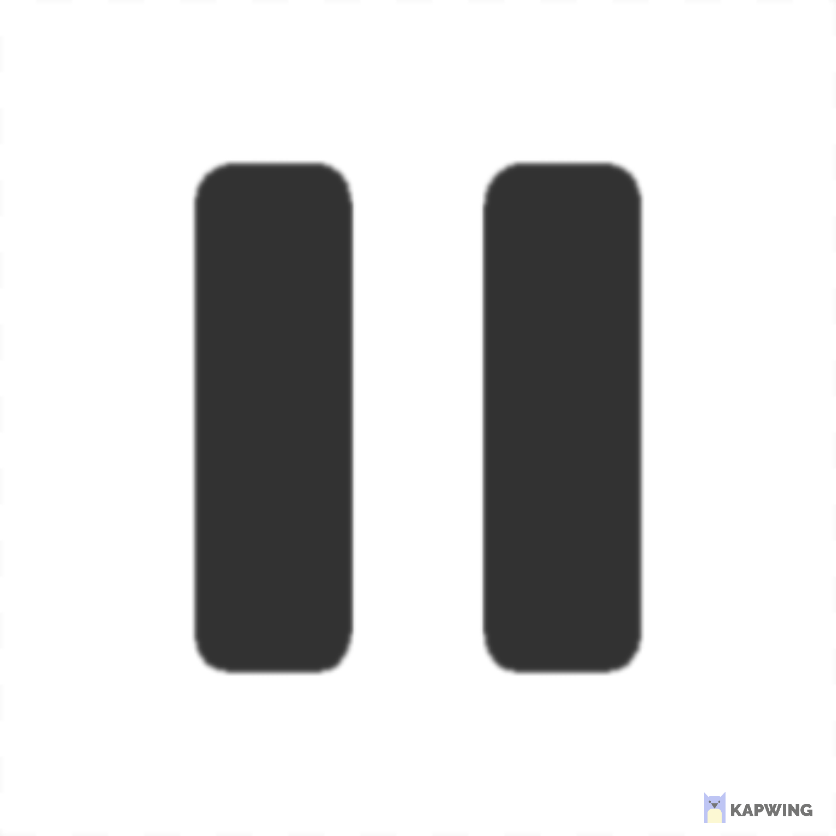
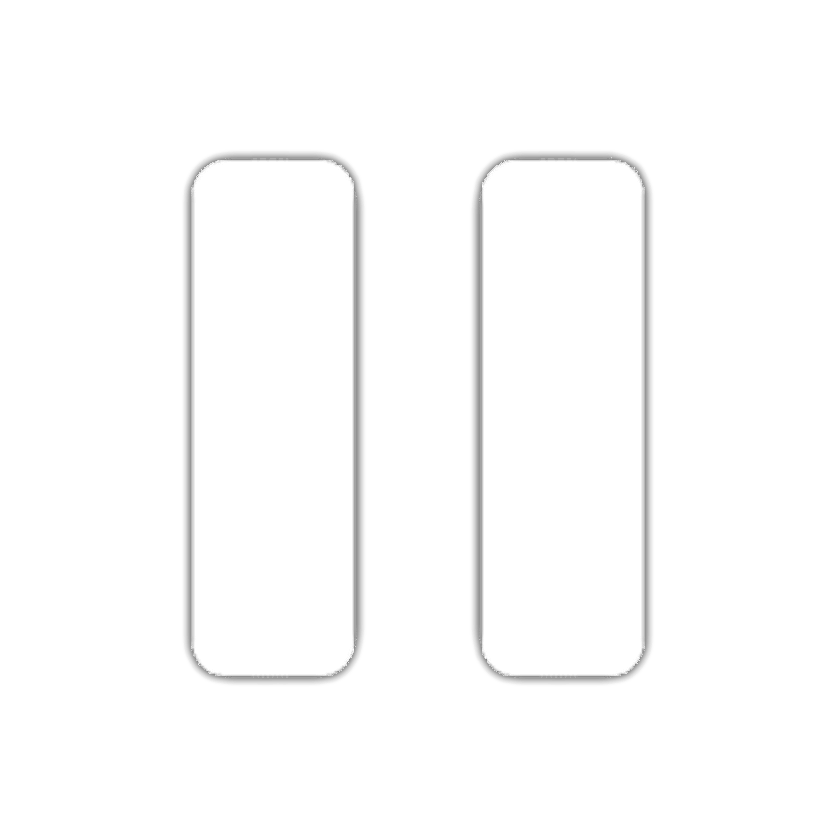
It finally looks kinda good <3

Changed region(s): [[0.5598, 0.1555, 0.7775, 0.8397], [0.2177, 0.1555, 0.4354, 0.8397], [0.8397, 0.933, 0.9641, 0.9952]]

diff --git a/src/com/langesokker/views/FullMediaView.java b/src/com/langesokker/views/FullMediaView.java
@@ -2,9 +2,10 @@ package com.langesokker.views;
 
 import com.langesokker.components.JText;
 import com.langesokker.components.PlayButton;
-import com.langesokker.components.RatingContainer;
 import com.langesokker.components.containers.EpisodeSelectorContainer;
+import com.langesokker.components.containers.JMultiLine;
 import com.langesokker.components.containers.NavBarContainer;
+import com.langesokker.components.containers.RatingContainer;
 import com.langesokker.controllers.GUIController;
 import com.langesokker.controllers.MediaController;
 import com.langesokker.controllers.UserController;
@@ -20,7 +21,6 @@ import javax.swing.border.CompoundBorder;
 import javax.swing.border.EmptyBorder;
 import javax.swing.border.LineBorder;
 import java.awt.*;
-import java.awt.image.BufferedImage;
 
 public class FullMediaView extends BaseView {
 
@@ -42,40 +42,27 @@ public class FullMediaView extends BaseView {
     public Container getContainer() {
         JPanel panel = new JPanel();
         panel.setLayout(new BorderLayout());
+
         JPanel mainPanel = new JPanel();
-        mainPanel.setLayout(new BoxLayout(mainPanel, BoxLayout.LINE_AXIS));
+        mainPanel.setLayout(new GridBagLayout());
+        GridBagConstraints c = new GridBagConstraints();
+        c.fill = GridBagConstraints.BOTH;
+        c.weightx = 1;
+        c.weighty = 1;
         mainPanel.setBackground(Colors.SECONDARY_DARK.getColor());
 
-        JPanel imagePanel = new JPanel();
-        imagePanel.setOpaque(false);
+        c.gridx = 0;
+        c.gridy = 0;
+        JPanel imagePanel = createImagePanel();
+        mainPanel.add(imagePanel, c);
 
-        imagePanel.setLayout(new BoxLayout(imagePanel, BoxLayout.Y_AXIS));
-        imagePanel.setAlignmentY(JPanel.TOP_ALIGNMENT);
-        imagePanel.setSize(200, 400);
+        c.gridx = 1;
+        c.gridy = 0;
 
-        JLabel image = new JLabel(new ImageIcon(mediaController.getMediaImage(media)));
-        imagePanel.add(image);
-
-        /* Add a play button */
-        JButton playButton = new PlayButton();
-        imagePanel.add(playButton);
-
-        /* Add season/episode select if possible */
-        if (media instanceof Seasonable) {
-            Seasonable seasonable = (Seasonable) media;
-            imagePanel.add(new EpisodeSelectorContainer(seasonable));
-        }
-
-        JPanel infoPanel = new JPanel();
-        infoPanel.setLayout(new BoxLayout(infoPanel, BoxLayout.PAGE_AXIS));
-        infoPanel.setOpaque(false);
+        JPanel infoPanel = createInfoPanel();
         infoPanel.setBorder(BorderFactory.createLineBorder(Color.black));
 
-        JPanel innerPanel = getInnerInfoPanel();
-        infoPanel.add(innerPanel);
-
-        mainPanel.add(imagePanel, Component.TOP_ALIGNMENT);
-        mainPanel.add(infoPanel);
+        mainPanel.add(infoPanel, c);
         panel.add(new NavBarContainer(new Container()), BorderLayout.NORTH);
         panel.add(mainPanel, BorderLayout.CENTER);
         return panel;
@@ -92,39 +79,94 @@ public class FullMediaView extends BaseView {
         return button;
     }
 
-    private JPanel getInnerInfoPanel(){
-        JPanel innerPanel = new JPanel();
-        innerPanel.setLayout(new BoxLayout(innerPanel, BoxLayout.Y_AXIS));
-        innerPanel.setOpaque(false);
+    private JPanel createImagePanel() {
+        JPanel imagePanel = new JPanel();
+        imagePanel.setOpaque(false);
 
-        innerPanel.setSize(new Dimension(100, 200));
+        imagePanel.setLayout(new GridBagLayout());
+        GridBagConstraints c = new GridBagConstraints();
+        c.fill = GridBagConstraints.BOTH;
+        c.weightx = 1;
+        c.weighty = 1;
+        c.gridx = 0;
+        c.gridy = 0;
+        c.gridheight = 1;
+        c.gridwidth = 1;
+        JLabel image = new JLabel(new ImageIcon(ImageUtils.resize(mediaController.getMediaImage(media), 200, 298)));
+        imagePanel.add(image, c);
 
+        c.gridy = 1;
+        c.insets = new Insets(20, 20, 20, 20);
+        /* Add a play button */
+        JButton playButton = new PlayButton();
+        imagePanel.add(playButton, c);
+
+        c.gridy = 2;
+        /* Add season/episode select if possible */
+        if (media instanceof Seasonable) {
+            Seasonable seasonable = (Seasonable) media;
+            imagePanel.add(new EpisodeSelectorContainer(seasonable), c);
+        }
+        return imagePanel;
+    }
+
+    private JPanel createInfoPanel() {
+        JPanel infoPanel = new JPanel();
+        infoPanel.setLayout(new GridBagLayout());
+        infoPanel.setOpaque(false);
+
+        GridBagConstraints c = new GridBagConstraints();
+        c.fill = GridBagConstraints.BOTH;
+        c.weightx = 1;
+        c.weighty = 1;
+        c.gridx = 0;
+        c.gridy = 0;
+        c.gridheight = 1;
+        c.gridwidth = GridBagConstraints.REMAINDER;
         JText title = new JText(
-                String.format("<html><div style=\"width:%dpx; text-align:left; text-transform: uppercase;\">%s</div></html>", 500, media.getName()),
+                String.format("<html><div style=\"width:%dpx; text-align:left; text-transform: uppercase;\">%s</div></html>", 1000, media.getName()),
                 72,
                 true,
                 Color.WHITE);
 
         title.setBorder(BorderFactory.createLineBorder(Color.black));
-        innerPanel.add(title);
+        infoPanel.add(title, c);
 
-        /*Container ratingContainer = new RatingContainer(media, FlowLayout.LEFT, true);
-        innerPanel.add(ratingContainer);*/
+        c.gridy = 1;
+        c.gridx = 1;
+        c.gridwidth = 1;
+        Box ratingContainer = new RatingContainer(media, false);
+        infoPanel.add(ratingContainer, c);
 
-        innerPanel.add(new JText("Release date: " + media.getReleaseDate(), 20, true, Colors.WHITE.getColor()));
-        innerPanel.add(new JText(media.genresToString(), 20, Colors.WHITE.getColor()));
-        innerPanel.setAlignmentX(SwingConstants.LEFT);
+        c.gridy = 1;
+        c.gridx = 2;
+        c.gridwidth = 1;
+        infoPanel.add(new JText("Release date: " + media.getReleaseDate(), 20, false, Colors.WHITE.getColor()), c);
+        c.gridy = 1;
+        c.gridx = 3;
+        c.gridwidth = GridBagConstraints.REMAINDER;
+        infoPanel.add(new JText(media.genresToString(), 20, Colors.WHITE.getColor()), c);
+        c.gridwidth = 1;
+        infoPanel.setAlignmentX(SwingConstants.LEFT);
+
+        c.gridx = 0;
+        c.gridy = 2;
+        c.gridwidth = GridBagConstraints.REMAINDER;
+        JMultiLine description = new JMultiLine("Lorem ipsum dolor sit amet, consectetur adipiscing elit. Cras elementum nisl venenatis diam tincidunt, in fermentum ligula lobortis. Praesent malesuada enim in velit eleifend, eu eleifend dui maximus. Sed vel suscipit est, sed lobortis enim. Nam lobortis tellus eget pellentesque consequat. Nunc massa risus, molestie sed nisl a, molestie dictum massa. Phasellus nibh nisl, tempor in arcu at, semper blandit nisl. Aenean egestas vitae nunc eu eleifend. Morbi ut odio mauris.");
+        infoPanel.add(description, c);
+        c.gridwidth = 1;
 
         Box buttonBox = Box.createHorizontalBox();
 
         JButton backButton = createSimpleButton("Back");
         backButton.addActionListener(e -> guiController.setView(guiController.getFrontPage().getContainer()));
         buttonBox.add(backButton);
-        buttonBox.add(Box.createRigidArea(new Dimension(30,0)));
-
         buttonBox.add(createAddToListButton());
-        innerPanel.add(buttonBox);
-        return innerPanel;
+        c.gridy = 3;
+        c.gridwidth = GridBagConstraints.REMAINDER;
+        infoPanel.add(buttonBox, c);
+        c.gridwidth = 1;
+        return infoPanel;
     }
 
 

diff --git a/src/com/langesokker/components/containers/RatingContainer.java b/src/com/langesokker/components/containers/RatingContainer.java
@@ -1,0 +1,35 @@
+package com.langesokker.components.containers;
+
+import com.langesokker.components.JText;
+import com.langesokker.media.Media;
+import com.langesokker.utils.Colors;
+import com.langesokker.utils.ImageUtils;
+
+import javax.swing.*;
+import javax.swing.border.EmptyBorder;
+import java.awt.*;
+import java.awt.image.BufferedImage;
+import java.util.concurrent.Flow;
+
+public class RatingContainer extends Box {
+
+    public RatingContainer(Media media) {
+        this(media, true);
+    }
+
+    public RatingContainer(Media media, boolean frontPage) {
+        super(BoxLayout.LINE_AXIS);
+       /* FlowLayout layout = new FlowLayout(alignment, 0, 20);
+        layout.setAlignOnBaseline(true);*/
+        this.setMaximumSize(new Dimension(this.getWidth(), this.getHeight()));
+        this.setOpaque(false);
+        JText ratingText = new JText(((!frontPage ? "Rating: " : "") + media.getRating()), 15, true, Colors.WHITE.getColor());
+        this.add(ratingText);
+
+        BufferedImage ratingIcon = ImageUtils.getImage("assets/star.png");
+        if(ratingIcon != null){
+            ratingIcon = ImageUtils.resize(ratingIcon, ratingText.getFontSize(), ratingText.getFontSize());
+            this.add(new JLabel(new ImageIcon(ratingIcon)));
+        }
+    }
+}

diff --git a/src/com/langesokker/components/containers/JMultiLine.java b/src/com/langesokker/components/containers/JMultiLine.java
@@ -1,0 +1,44 @@
+package com.langesokker.components.containers;
+
+import com.langesokker.components.JText;
+
+import javax.swing.*;
+import java.awt.*;
+
+public class JMultiLine extends JTextArea {
+
+    Color color;
+    String fontName = "Lucida Sans";
+    boolean isBold = false;
+    int fontSize = 12;
+
+    public JMultiLine(String text){
+        super(text);
+    }
+    public JMultiLine(String text, int fontSize){
+        this(text);
+        this.fontSize = fontSize;
+    }
+    public JMultiLine(String text, int fontSize, Color color){
+        this(text, fontSize);
+        this.color = color;
+    }
+    public JMultiLine(String text, int fontSize, Color color, boolean isBold){
+        this(text, fontSize, color);
+        this.isBold = isBold;
+    }
+
+    @Override
+    protected void paintComponent(Graphics g) {
+        super.setLineWrap(true);
+        super.setWrapStyleWord(true);
+        this.setMargin(new Insets(20, 10, 10, 10));
+        this.setOpaque(false);
+
+        if(color == null) super.setForeground(Color.WHITE);
+        else super.setForeground(color);
+        super.setFont(new Font(fontName, isBold ? Font.BOLD : Font.PLAIN, fontSize));
+        super.paintComponent(g);
+    }
+
+}

diff --git a/src/com/langesokker/components/PlayButton.java b/src/com/langesokker/components/PlayButton.java
@@ -3,6 +3,8 @@ package com.langesokker.components;
 import com.langesokker.utils.ImageUtils;
 
 import javax.swing.*;
+import javax.swing.border.EmptyBorder;
+import java.awt.*;
 import java.awt.image.BufferedImage;
 
 public class PlayButton extends JButton{
@@ -13,8 +15,14 @@ public class PlayButton extends JButton{
     boolean isPlaying = false;
 
     public PlayButton(){
-        this.playIcon = ImageUtils.resize(ImageUtils.getImage("assets/play_icon_transparent.png"), 70, 70);
-        this.pauseIcon = ImageUtils.resize(ImageUtils.getImage("assets/pauseicon.png"), 70, 70);
+        this.setBorder(new EmptyBorder(0,0,0,0));
+        this.setBorderPainted(false);
+        this.setContentAreaFilled(false);
+        this.setFocusPainted(false);
+        this.setOpaque(false);
+        this.setCursor(new Cursor(Cursor.HAND_CURSOR));
+        this.playIcon = ImageUtils.resize(ImageUtils.getImage("assets/play_icon_transparent.png"), 90, 90);
+        this.pauseIcon = ImageUtils.resize(ImageUtils.getImage("assets/pauseicon.png"), 90, 90);
 
         this.setVerticalAlignment(SwingConstants.CENTER);
 

diff --git a/src/com/langesokker/components/JText.java b/src/com/langesokker/components/JText.java
@@ -74,20 +74,8 @@ public class JText extends JLabel {
         this.color = color;
     }
 
-    public boolean isBold() {
-        return isBold;
-    }
-
     public int getFontSize() {
         return fontSize;
-    }
-
-    public void setFontSize(int fontSize) {
-        this.fontSize = fontSize;
-    }
-
-    public void setBold(boolean bold) {
-        isBold = bold;
     }
 
     /**
@@ -95,11 +83,9 @@ public class JText extends JLabel {
      */
     @Override
     protected void paintComponent(Graphics g) {
-        if(color != null) super.setForeground(Color.WHITE);
-        Font defaultFont = super.getFont();
-        super.setFont(new Font(fontName, isBold() ? Font.BOLD : Font.PLAIN, getFontSize()));
-        /*super.setBackground(Color.CYAN);
-        super.setOpaque(true);*/
+        if(color == null) super.setForeground(Color.WHITE);
+        else super.setForeground(color);
+        super.setFont(new Font(fontName, isBold ? Font.BOLD : Font.PLAIN, fontSize));
         super.paintComponent(g);
     }
 }

diff --git a/src/com/langesokker/components/containers/MediaItemContainer.java b/src/com/langesokker/components/containers/MediaItemContainer.java
@@ -1,17 +1,13 @@
 package com.langesokker.components.containers;
 
 import com.langesokker.components.JText;
-import com.langesokker.components.RatingContainer;
 import com.langesokker.components.TransparentJPanel;
 import com.langesokker.controllers.GUIController;
 import com.langesokker.controllers.MediaController;
 import com.langesokker.media.Media;
-import com.langesokker.utils.Colors;
-import com.langesokker.utils.ImageUtils;
 import com.langesokker.views.FullMediaView;
 
 import javax.swing.*;
-import javax.swing.border.EmptyBorder;
 import java.awt.*;
 import java.awt.event.MouseEvent;
 import java.awt.event.MouseListener;
